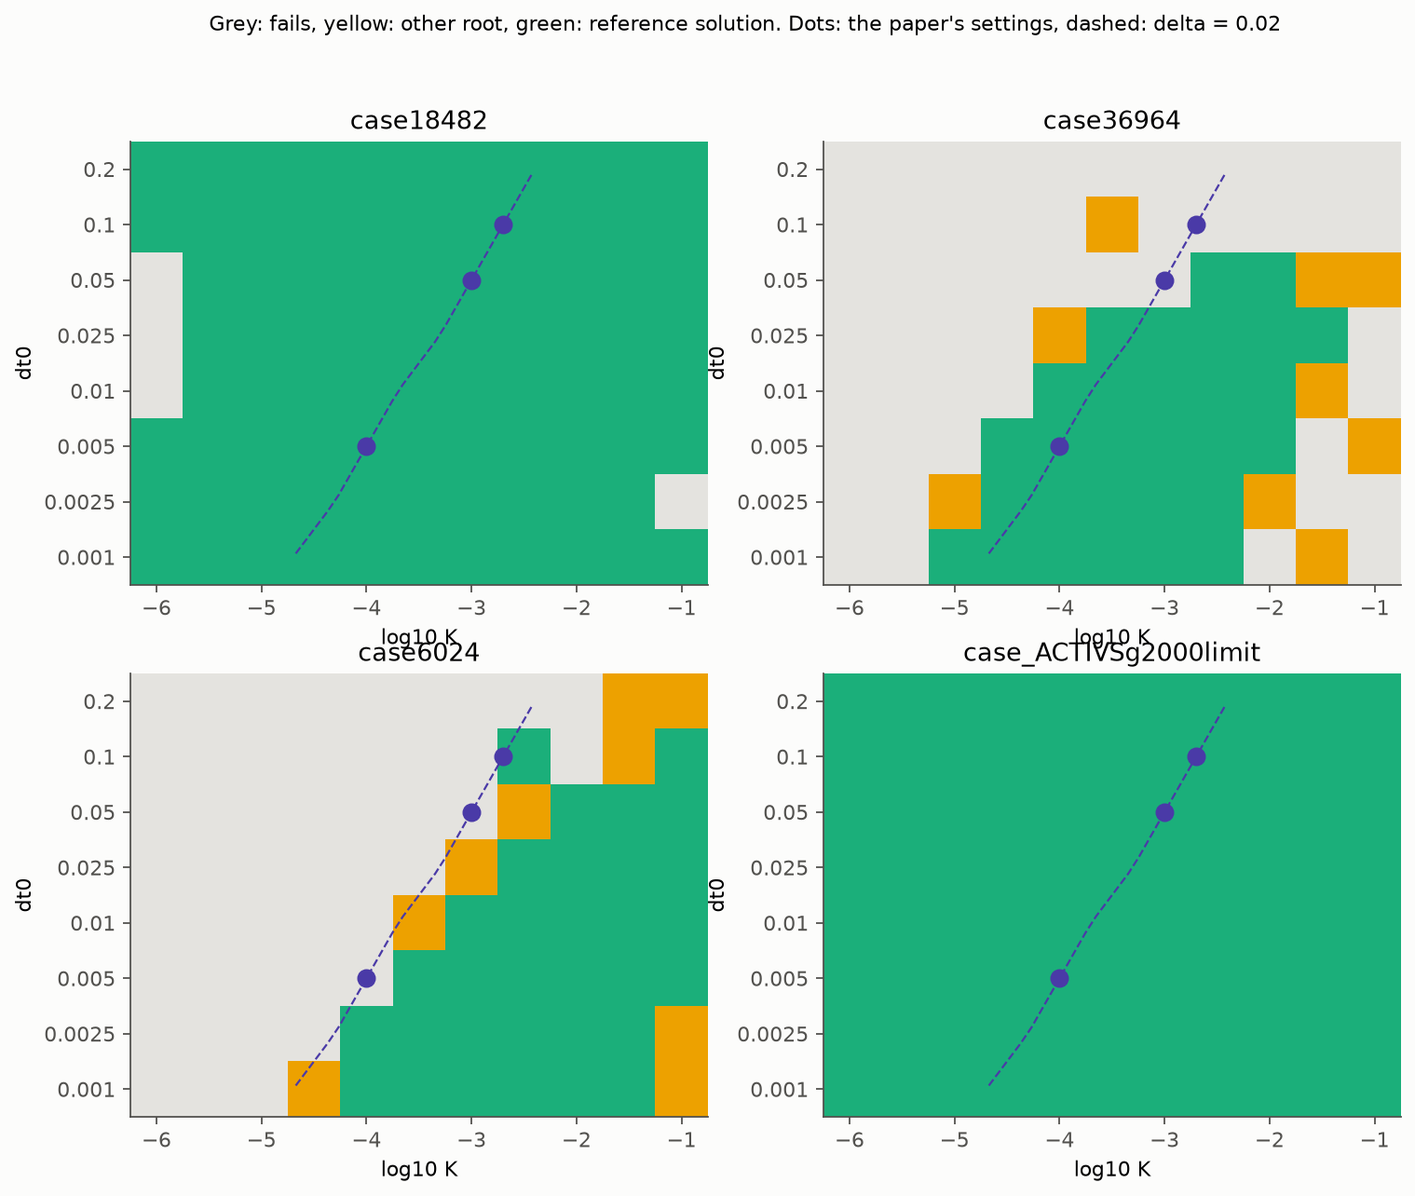
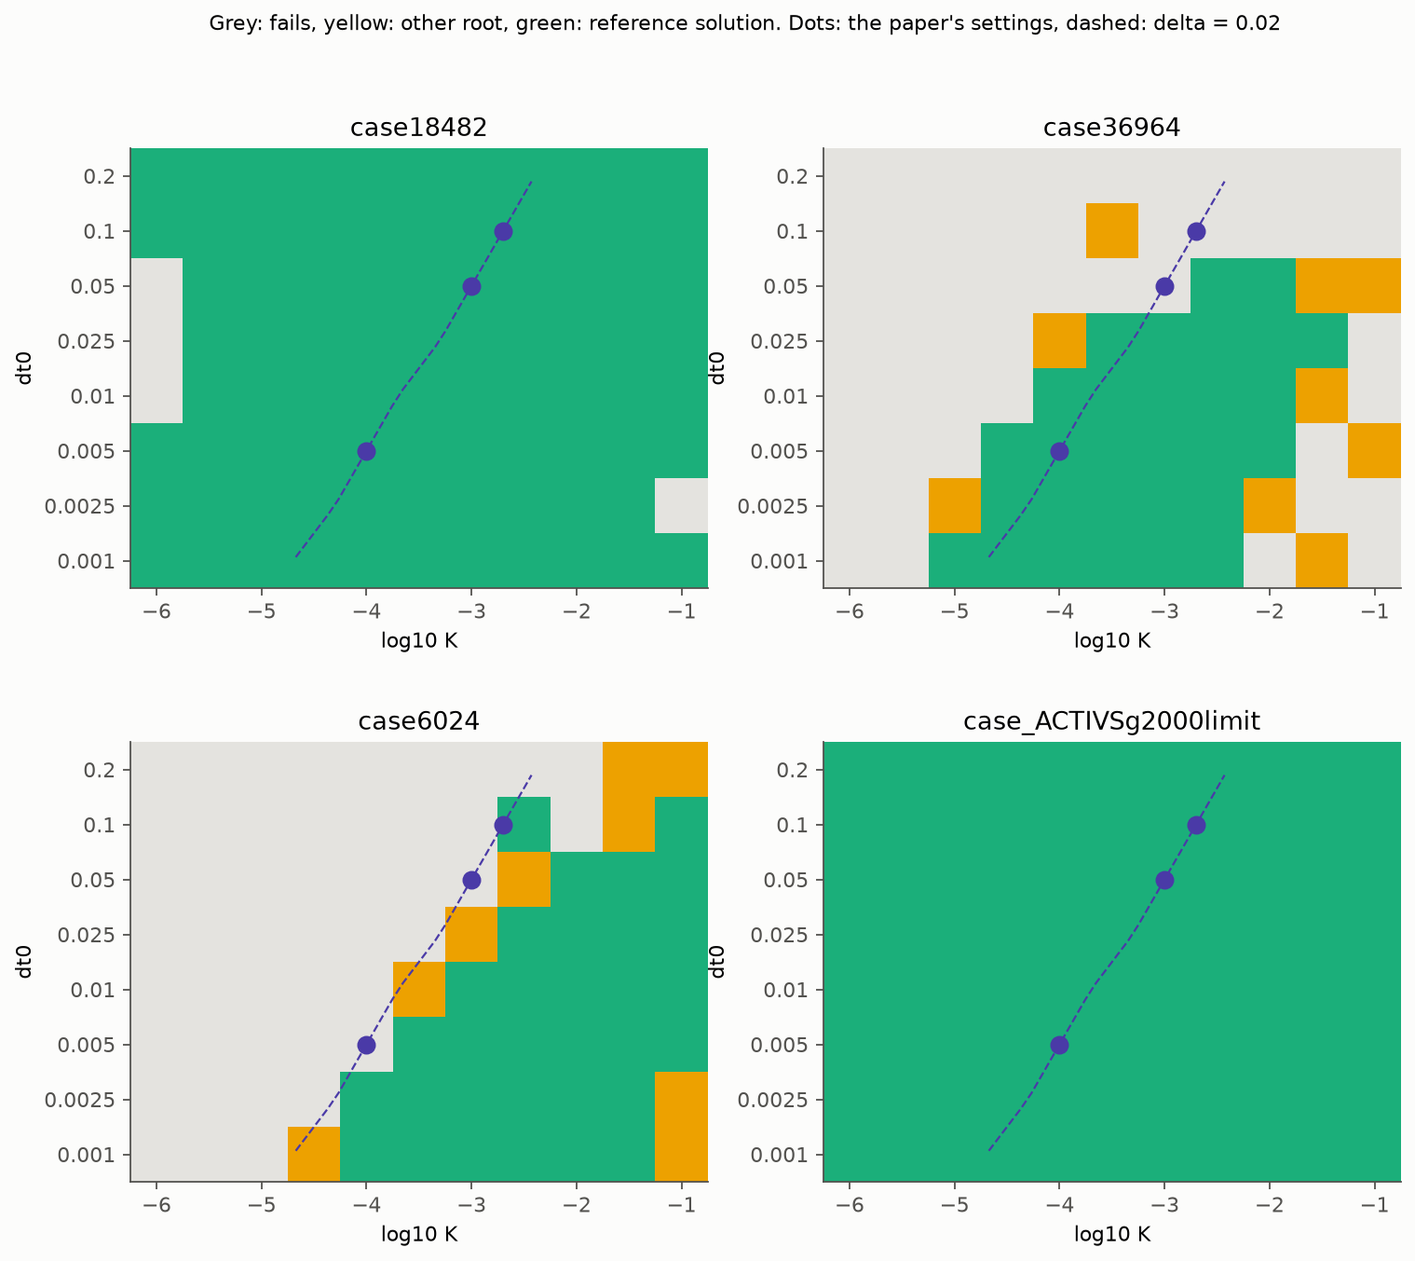
Fixed corrupted runs.

diff --git a/experiments/exp13_feasibility.py b/experiments/exp13_feasibility.py
@@ -43,7 +43,8 @@ def plot(ax, grid, name):
 
 
 def main(cases=CASES):
-    fig, axes = new_figure(2, 2, width=11, height=8.5)
+    fig, axes = new_figure(2, 2, width=11, height=9)
+    fig.subplots_adjust(hspace=0.35)
     rows = []
     for ax, name in zip(axes.ravel(), cases):
         pf = load(name)

diff --git a/README.md b/README.md
@@ -6,7 +6,10 @@ A. Lima-Silva and F. D. Freitas, "Exploring a Dynamic Homotopy Technique to Enha
 Convergence of Classical Power Flow Iterative Solvers in Ill-Conditioned Power System
 Models", Energies 17(18):4642, 2024. doi:10.3390/en17184642
 
-The paper is in `energies-17-04642-v3.pdf`. We reproduce all of its tables and figures.
+The paper is in `energies-17-04642-v3.pdf`. We rerun every table and figure of the
+paper. Most results match closely; the ones that do not are listed under "Differences".
+On top of that we test changes to the method (`improvements/`) and implement the
+numerical parts of our project proposal (`extensions/`).
 
 ## Running
 
@@ -20,8 +23,11 @@ python -m pytest tests
 
 The test systems are downloaded from Zenodo into `data/cases/` the first time they are
 needed (records 3514739 and 3491654, the same files the paper uses). Results are written
-to `results/tables` and `results/figures`. Every table cell is printed as `ours / paper`.
-Running everything takes around 30 minutes, mostly for the timing tables.
+to `results/tables` and `results/figures`. Where the paper has a value, a table cell is
+printed as `ours / paper`.
+
+Experiments 1 to 10 (the paper) take about an hour. Experiment 11 (our improvements,
+17 configurations x 170 runs) takes several hours on a laptop.
 
 ## The method
 
@@ -39,13 +45,13 @@ Differentiating G(x(t), t) = 0 gives the ODE
 This ODE is integrated from t = 0 to 1 with only a few steps of forward Euler, RK2 or
 backward Euler, which gives a rough answer. That answer is then used as the starting
 point for NR or the fast decoupled method (FDXB). The first step is always taken with
-backward Euler, because it adds K / dt0 to the diagonal of the Jacobian and keeps the
-step small.
+backward Euler, because it adds delta = K / dt0 to the diagonal of the Jacobian and
+keeps the step small.
 
 ## Code layout
 
 ```
-dynhomotopy/
+dynhomotopy/            the paper's method, nothing else
   problem.py            g(x) = 0 interface, and the 2x2 example from Section 3.3
   datasets.py           the nine test systems and their download
   linalg.py             sparse LU with a counter for the number of factorizations
@@ -63,14 +69,19 @@ dynhomotopy/
     integrators.py      FE, BE, RK2 and the linearised first step
     pathway.py          the time points t_k
     dynamic.py          runs the integration along the path
-improvements/           our additions, built on top of dynhomotopy (see "Improvements")
+improvements/           changes to the method, each behind a switch (see "Improvements")
   solve.py              solve() and the Options switches
   multiplier.py         NR with Iwamoto's optimal multiplier
-  steps.py              step rules (BE-chord, RK4) and the Newton corrector
+  steps.py              step rules (BE-chord, FE, RK2, RK4) and the Newton corrector
   homotopies.py         the scaled and the Newton homotopy
-  path.py               fixed and adaptive time points
-  cases.py              the wider test bed of 34 cases
-experiments/            one script per result in the paper, plus exp11 for our improvements
+  path.py               fixed, adaptive and Richardson-controlled time points
+  cases.py              the wider test bed of 34 cases and their reference solutions
+extensions/             the numerical parts of our proposal (see "Proposal features")
+  gauss.py              Gauss elimination and LU with partial pivoting, from scratch
+  scratch.py            BE path, NR and FDXB using that LU
+  spectrum.py           power method and shifted inverse iteration
+  tuning.py             golden-section search for delta and dt0
+experiments/            one script per result
 tests/
 run_all.py
 ```
@@ -78,7 +89,7 @@ run_all.py
 The solvers only use `g(x)` and `jacobian(x)`, so the 2x2 example and the 109,272-bus
 system go through the same code.
 
-| Paper result | Script | Output |
+| Result | Script | Output |
 |---|---|---|
 | Figures 1 and 2 | exp01_tutorial.py | fig1*.png, fig2*.png |
 | Section 4.2.1 | exp02_first_step.py | sec421_first_step.md |
@@ -88,44 +99,58 @@ system go through the same code.
 | Figure 3, Table 6 | exp06_fig3_table6.py | fig3*.png, table6.md |
 | Figure 4 | exp07_fig4.py | fig4_case109272_states.png |
 | Figure 5 | exp08_fig5.py | fig5_timestep_sensitivity.png |
-| Table 7 | exp09_table7.py | table7.md |
+| Table 7 | exp09_table7.py | table7.md, table7_native_base.md |
 | Table 8 | exp10_table8.py | table8.md |
 | Our improvements | exp11_improvements.py | improvements_*.md |
+| Proposal: spectrum | exp12_spectrum.py | spectrum.md |
+| Proposal: (K, dt0) maps | exp13_feasibility.py | feasibility.md, feasibility_maps.png |
+| Proposal: tuning delta | exp14_tuning.py | tuning_per_case.md, tuning_rules.md |
+| Proposal: own LU | exp15_scratch_lu.py | scratch_lu.md, gauss_vs_lu.md |
 
 ## Results
 
-Most results match the paper closely:
+What matches the paper:
 
 - Tables 4 and 5 (backward Euler) match almost digit for digit, including the NR
   iterations after the homotopy. For case18482 we get 532, 65, 33, 7.2, 3.7 along the
   path and then 0.04, 1.5e-5, 1e-11, the same as the paper.
 - Tables 2 and 3 match wherever FE and RK2 do not blow up. Where they do blow up, they
   do so at the same place, but the size of the blow-up differs.
-- Table 7 matches for NR from the case file, NR from a flat start (fails on all large
-  cases), and every BE / RK2 run with NR or FDXB.
+- Table 7 matches on the five large ill-conditioned cases in every column except two
+  (GSH-NR on case27318 and BE(FDXB) on case109272, see below), and on case500limit and
+  case2000limit in every column. Every converged run in Table 7 reaches the reference
+  operating point (see "Checking the solution").
 - Figures 4 and 5 show the same voltage paths. Bus 6 of case109272 ends at 1.0045 pu
   and 21.1 degrees for every time step.
-- Figure 3 has the same shapes, and the one failure mentioned in the paper (FE with
-  t3 = 0.25 on case36964) also fails here.
-- For run times, BE followed by FDXB is faster than plain NR on all large cases (66-91%
-  of the NR time, the paper reports 57-85%). BE followed by NR costs about the same as
-  plain NR. Table 6 for case109272 is within a few percent of the paper.
+- Figure 3 has the same shapes. The paper's one failure (FE with t3 = 0.25 on
+  case36964) also fails here.
+- Run times (median of 7 runs, relative to NR from the case file): BE followed by FDXB
+  takes 66-93% of the NR time on the five large cases (paper: 57-85%), and BE followed
+  by NR takes 102-122% (paper: 92-128%). In Table 6, case109272 is within 13
+  percentage points of the paper in every row, and within 8 in most (for example BE
+  163% against 169-171%).
 
-Differences we found:
+Differences:
 
 - case69limit and case141limit store baseMVA = 10. The paper's numbers for them in
-  Tables 2-5 only come out if 100 MVA is used, so we use 100 MVA for these two cases.
-  But the paper's plain NR iteration counts for them in Table 7 match the 10 MVA base
-  (see table7_native_base.md), so the paper is not consistent here.
-- FDXB iterations are counted the way MATPOWER prints them, as P steps plus Q steps
-  (for example 15 + 14 = 29). With that count all FDXB numbers in Table 7 match.
+  Tables 2-5 only come out on a 100 MVA base, so every experiment uses 100 MVA for these
+  two cases (the Table 7 caption says so). On that base NR from the case file and from
+  a flat start take 2 iterations where Table 7 says 4 and 3. On the 10 MVA base those
+  two columns match, but then BE(NR) takes 2 instead of 1 (table7_native_base.md).
+  The paper's numbers for these two cases do not fit a single base.
+- FDXB: we report the number of P updates plus Q updates (for example 15 + 14 = 29),
+  because that is what Table 7 counts. MATPOWER's fdpf returns one count per P/Q cycle
+  and prints the P and Q counts separately. With this count every FDXB entry of
+  Table 7 matches except the next one.
 - Table 7 gives BE(FDXB) = 19 for case109272. We get 29, the same as for case54636,
-  which is the same network repeated half as many times. We think 19 is a typo. In
-  Table 2, FE on case18482 at t = 0.01 gives 3.7 against 9.7 in the paper, while every
-  other cell in that column matches.
+  which is the same network repeated half as many times. In Table 2, FE on case18482 at
+  t = 0.01 gives 3.7 against 9.7 in the paper, while every other cell in that column
+  matches.
 - GSH-NR is only described in words in the paper, so solvers/gsh.py is our own version
   of it. It matches case18482 (10 iterations) and case36964 (28 against 27), but fails
   on case27318 where the paper reports 25.
+- Figure 3 and Table 6: RK2 with t3 = 0.20 fails on case36964, where the paper's plot
+  converges.
 - Section 4.4: BE works on almost every path, as the paper says. Unlike the paper, FE
   and RK2 also work on some 4 point paths, and BE followed by NR fails on case36964
   with only 3 points (FDXB still converges there).
@@ -134,89 +159,162 @@ Differences we found:
   ||g|| of about 100, not 1000). In Figures 1(b)-(d) BE is still the best start for
   NR, but some iteration counts differ by 1 or 2. Some runs reach the other root
   (0.5, 1.5) of the system.
-- RK2 is slower here than in the paper (250-330% of plain NR). Our timings come from
-  Python and SciPy and the paper's from MATLAB, so only the percentages can be compared.
-  We report the median of several runs because single runs varied a lot on a laptop.
+- In Table 8, RK2 costs 252-331% of plain NR here against 84-218% in the paper. Our
+  timings come from Python and SciPy and the paper's from MATLAB, so only percentages
+  are compared.
+
+## Checking the solution
+
+Power flow equations have more than one solution, and a mismatch below 1e-8 does not
+tell them apart. For every case we take as reference the solution NR reaches from the
+initial guess stored in the case file (`improvements.cases.reference_voltage`). A run
+counts as solved only if its voltages are within 1e-4 pu of the reference.
+
+This matters. With the paper's own method on our 34-case test bed, 14 of the 141 runs
+that converge reach another root, for example case27318, case54636 and case109272 with
+dt0 = 0.1 or with K = 1e-5 or 1e-3. With the paper's settings (dt0 = 0.005, K = 1e-4)
+all of the paper's nine cases reach the reference.
 
 ## Improvements
 
-The `improvements` package adds changes to the paper's method without touching
-`dynhomotopy`. Every change is a switch in `Options`, and with all switches off
-`improvements.solve` gives exactly the result of the paper's method (a test checks this).
+The `improvements` package changes the paper's method without touching `dynhomotopy`.
+Every change is a switch in `Options`, and with all switches off `improvements.solve`
+gives exactly the result of the paper's method (a test checks this).
 
 ```python
 from improvements import Options, solve
 
-options = Options(multiplier=True, adaptive=True)
+options = Options(multiplier=True, corrector=True)
 result = solve(pf, pf.flat_start(), K=1e-4, times=[0, 0.005, 1], options=options)
 ```
 
-| Switch | What it does | Where the idea comes from | Code |
-|---|---|---|---|
-| `multiplier=True` | scales every step of the final NR by Iwamoto's optimal multiplier | ref. [10] | multiplier.py |
-| `corrector=True` | after every path step, one Newton step on G(x, t) = 0 | predictor-corrector, Sec. 2.1.2, refs. [36, 37] | steps.py |
-| `adaptive=True` | after t1, tries to jump to t = 1 and halves the step while the mismatch grows | future work (Sec. 5) | path.py |
-| `step="BE-chord"` | BE with 3 fixed point iterations on one LU | remark after eq. (19) | steps.py |
-| `step="RK4"` | classical RK4 after a BE first step | future work (Sec. 5) | steps.py |
-| `homotopy="scaled"` | K D (x - x0) with D the Jacobian diagonal | ref. [29] | homotopies.py |
-| `homotopy="newton"` | Newton homotopy g(x) - (1 - t) g(x0) | future work, ref. [36] | homotopies.py |
-
-The first three helped in our tests; the last four did not and are kept for comparison.
+| Switch | What it does | Where the idea comes from |
+|---|---|---|
+| `corrector=True` | after every path step, one Newton step on G(x, t) = 0 | predictor-corrector, Sec. 2.1.2, refs. [36, 37] |
+| `multiplier=True` | scales every step of the final NR by Iwamoto's optimal multiplier | ref. [10] |
+| `adaptive=True` | after t1, tries to jump to t = 1 and halves the step while the mismatch grows | future work (Sec. 5) |
+| `richardson=True` | chooses the steps from a Richardson estimate of the local error (stops after 150 LUs) | our proposal |
+| `step="FE"`, `"RK2"`, `"RK4"`, `"BE-chord"` | other step rules (BE-chord: 3 fixed point iterations on one LU, remark after eq. (19)) | future work, our proposal |
+| `homotopy="scaled"`, `"newton"` | K D (x - x0) with D the Jacobian diagonal, or the Newton homotopy | ref. [29], ref. [36] |
 
 ### How we tested them
 
-`experiments/exp11_improvements.py` runs every configuration on 34 cases: the paper's 9
-plus 25 more from the same Zenodo records (`improvements/cases.py`). Each case runs under
-5 settings of (dt0, K) with the path {0, dt0, 1}: the paper's default (S1), the two larger
-first steps of Section 4.4 (S2, S3), a weaker K = 1e-5 (S4) and a stronger K = 1e-3
-(S5). That is 170 runs per configuration. A run is solved if NR then converges within
-10 iterations, as in the paper. Cost is the number of LU factorizations, which does not
-depend on the machine.
+`experiments/exp11_improvements.py` runs each configuration on 34 cases: the paper's 9
+plus 25 more from the same Zenodo records. Each case runs under 5 settings of (dt0, K)
+with the path {0, dt0, 1}: the paper's default (S1), the two larger first steps of
+Section 4.4 (S2, S3), a weaker K = 1e-5 (S4) and a stronger K = 1e-3 (S5). That is 170
+runs per configuration. A run is solved if NR converges within 10 iterations and reaches
+the reference operating point. Cost is the number of LU factorizations. Run times are
+not compared, because each configuration runs only once.
 
-| Configuration | Solved (of 170) | Lost vs paper | Mean LUs, S1 | Time vs paper, S1 |
+| Configuration | Solved (of 170) | Other root | Lost vs paper | Mean LUs, S1 (paper: 8.04) |
 |---|---|---|---|---|
-| paper | 141 | - | 8.30 | 1.00 |
-| OM | 155 | 0 | 7.37 | 0.92 |
-| OM + adaptive | 158 | 1 | 7.90 | 0.92 |
-| OM + PC | 155 | 0 | 7.70 | 0.98 |
-| PC | 154 | 0 | 8.60 | 1.00 |
-| OM + PC + adaptive | 154 | 1 | 7.97 | 0.98 |
-| PC + adaptive | 153 | 1 | 8.87 | 1.01 |
-| adaptive | 146 | 1 | 8.83 | 0.99 |
-| scaled homotopy | 135 | 6 | 8.30 | 1.04 |
-| BE-chord | 113 | 30 | 8.75 | 1.06 |
-| newton homotopy | 85 | 56 | 8.94 | 1.10 |
-| RK4 | 14 | 127 | 7.00 | 2.30 |
+| paper | 127 | 14 | - | 8.04 |
+| PC | 152 | 2 | 0 | 8.43 |
+| OM + PC | 152 | 3 | 0 | 7.57 |
+| OM + PC + adaptive | 152 | 2 | 0 | 7.86 |
+| PC + adaptive | 152 | 1 | 0 | 8.71 |
+| OM | 143 | 12 | 0 | 7.14 |
+| OM + adaptive | 148 | 10 | 1 | 7.46 |
+| adaptive | 132 | 14 | 1 | 8.36 |
+| richardson (BE) | 151 | 9 | 1 | 10.61 |
+| OM + richardson | 156 | 8 | 0 | 9.75 |
+| richardson + FE | 157 | 3 | 1 | 37.14 |
+| richardson + RK2 | 158 | 4 | 1 | 47.50 |
+| richardson + RK4 | 145 | 10 | 9 | 87.15 |
+| scaled homotopy | 129 | 6 | 1 | 8.04 |
+| BE-chord | 89 | 24 | 47 | 8.89 |
+| newton homotopy | 75 | 10 | 56 | 9.00 |
+| RK4 (fixed steps) | 13 | 1 | 114 | 7.00 |
 
-OM is the multiplier, PC the corrector. "Mean LUs" only counts cases solved by both the
-configuration and the paper's method (the paper's own mean on the same cases is 8.30,
-except for BE-chord and RK4, which solve fewer cases). The full tables are in
-`results/tables/improvements_*.md`.
+OM is the multiplier, PC the corrector. The LU column only counts S1 cases solved by
+both the configuration and the paper's method; for the last four rows these are fewer
+cases, so their paper mean differs from 8.04. The full tables, including all five
+settings, are in `results/tables/improvements_*.md`.
 
 What we found:
 
-- The multiplier is the safest improvement. It solves 14 more runs, never loses one the
-  paper's method solves, and needs about 11% fewer LU factorizations. Most of the saving
-  is on the stressed limit cases, where NR needs 2 or 3 fewer iterations.
-- The multiplier together with adaptive steps solves the most runs (158). It is the only
-  configuration that solves case6024 (with the larger first steps S2 and S3) and case6748,
-  where the paper's method diverges. It loses one run: case2383wplimit with strong K.
-- The corrector rescues the same divergent case36964 runs as the multiplier, and makes
-  the result almost independent of dt0, but it costs one extra LU per path point.
-- Adding the corrector to the multiplier gives nothing extra. Adding the corrector to
-  adaptive steps can get expensive (19 LUs on average with strong K), because every
-  rejected step now costs two LUs.
-- Extra fixed point iterations on one LU (the paper's own suggestion) make the start worse.
-  RK4 and the Newton homotopy fail on most cases. The Newton homotopy has no K I term,
-  which shows that this shift is what makes the method work. Scaling K by the Jacobian
-  diagonal changes nothing at the default setting and loses cases with larger steps.
+- The corrector is the most useful change. It solves 25 more runs than the paper's
+  method, never loses one, and almost removes convergence to other roots (2 instead of
+  14), for about 0.4 more LUs per case. It also makes the result nearly independent of
+  dt0 (32 of 34 cases in S1, S2 and S3).
+- The multiplier lowers the cost (7.14 LUs instead of 8.04, about 11% fewer) but does
+  not stop the method from landing on other roots (12). Together with the corrector
+  it keeps the robustness of the corrector and most of the saving (7.57 LUs), which
+  makes OM + PC the best overall choice.
+- Richardson step control is the only change that solves case6024 at the paper's own
+  setting, and case7092, case10595 and case12110 with K = 1e-5, where the paper's
+  method diverges.
+  With BE it costs about 30% more LUs than the paper's method, and 20% more together
+  with the multiplier (OM + richardson, 156 solved). With FE or RK2 it solves slightly
+  more runs (157, 158), but needs 4-6 times as many LUs.
+- The paper's claim that BE is the best integrator still holds under error control:
+  with Richardson control BE needs 10.6 LUs, FE 37, RK2 48 and RK4 87, and RK4 also
+  solves fewer runs.
+- Adaptive halving alone helps little (132). Combined with the corrector it gets very
+  expensive when K is large (about 20 LUs in S5), because each rejected step costs two
+  LUs.
+- Extra fixed point iterations on one LU (the paper's own suggestion) make the start
+  worse. Fixed-step RK4 and the Newton homotopy fail on most cases; the Newton homotopy
+  has no K I term, which shows that this shift is what makes the method work. Scaling K
+  by the Jacobian diagonal changes almost nothing.
 
-Real rescues and speed-ups are different things. For case14limit and case2736splimit the
-paper's method does converge if NR is allowed 30 iterations (it needs 11), so there the
-improvements only make it faster. `improvements_gains.md` marks every such case. The
-paper's method really diverges on case36964 (S2, S3, S4), case6024 (S2, S3), case6748
-(S1, S2), case10595 and case12110 (S4), and each of these is solved by at least one
-configuration above.
+`improvements_gains.md` lists every case the paper's method does not solve and says
+whether it diverges, reaches another root, or is only slow (for case14limit and
+case2736splimit it converges in 11 NR iterations if allowed more than 10).
+
+## Proposal features
+
+Our proposal promised a spectral study of the Jacobian, maps of where the method works
+in the (K, dt0) plane, golden-section tuning, Richardson-controlled steps (see
+"Improvements") and linear solvers written from scratch. All of them are implemented;
+this is what they showed.
+
+**Spectrum** (`extensions/spectrum.py`, `exp12`). At the flat start the eigenvalue of J
+closest to zero is 4e-4 to 6e-3 on the twelve ill-conditioned cases, and 0.01 to 1.9 on
+most limit cases (the two limit cases built from the 9241- and 13659-bus grids are
+lower). The largest is 3e4 to 5e4 on the large grids, so the ratio
+lambda_max / lambda_min reaches 1.2e8 (case109272). The paper's shift delta = 0.02 lifts
+the smallest eigenvalue to about 0.02 and lowers the ratio to 1e6-2e6 on the
+ill-conditioned cases, but hardly changes most limit cases, whose smallest eigenvalue is
+already of that size or larger. That explains why the method behaves like plain NR on
+those cases. Inverse iteration
+matches ARPACK to 4 digits on 33 of 34 cases. The power method is off by up to 19% on
+the networks built from copies of the same grid, where the largest eigenvalues come in
+near-equal clusters and it converges very slowly.
+
+**Feasible region** (`exp13`, `feasibility_maps.png`). The method works in a band along
+the diagonals delta = K / dt0 = constant. For case18482 and case2000limit almost the
+whole grid works. For case36964 only 29 of 88 cells work, and no cell with dt0 = 0.1
+or 0.2 works. This is why the paper found that dt0 = 0.1 with K = 0.002 fails even though
+delta is unchanged. For case6024 the band lies at larger delta (0.03 to 32), and the
+paper's delta = 0.02 line runs along its edge, where runs reach other roots.
+
+**Tuning delta** (`extensions/tuning.py`, `exp14`). Golden-section search over
+log10(delta), then over log10(dt0), minimising total LUs, needs 21 solves per case.
+The tuned values show that the paper's delta suits some of its own cases (0.025 on
+case27318, case54636 and case109272) but is far too small for the other ill-conditioned
+cases (tuned delta 1 to 5). We fitted two rules on the paper's 9 cases and tested them on the other 25:
+
+| How delta is chosen | Solved, 9 training cases | Solved, 25 test cases | Mean LUs, test |
+|---|---|---|---|
+| paper, delta = 0.02 | 9 | 19 | 9.47 |
+| fixed tuned value, delta = 0.011 | 9 | 19 | 9.53 |
+| spectral rule, delta = 1.86 lambda_min | 5 | 20 | 11.00 |
+| golden search on each case | 9 | 23 | 9.13 |
+
+The spectral rule does not work. On the ill-conditioned cases the tuned delta is 50 to
+800 times lambda_min, so no single factor fits, and on the limit cases delta hardly
+matters at all. The rule loses four training cases. Searching
+each case solves four more test cases, but the search itself costs about 21 solves.
+
+**Own linear solvers** (`extensions/gauss.py`, `extensions/scratch.py`, `exp15`). The
+paper's method with our dense LU with partial pivoting gives the same iterations as
+with SciPy's sparse LU and the same solution to 5e-12, on the tutorial and the 69- to
+2000-bus cases. It is much slower (424 s against 0.04 s for NR on the 2000-bus case),
+because a dense LU costs O(n^3) and ignores the sparsity of the Jacobian. Factorising
+once and reusing the LU is 14 times faster than repeating Gauss elimination for 20
+right-hand sides, which is why FDXB factorises B' and B'' only once.
 
 ## Other details
 
